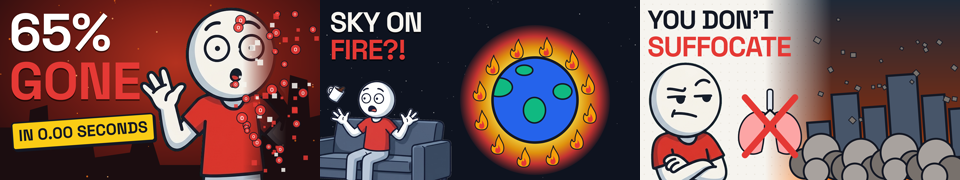
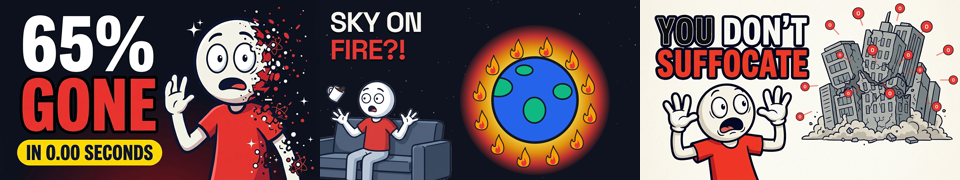
Oxygen 5s: owner thumbnails (65% GONE; YOU DON'T SUFFOCATE cleaned + escaping O atoms), final 320 check
Claude-Session: https://claude.ai/code/session_01QZBGd8qH4EfV1MNE2nHfnB

diff --git a/oxygen-5s/src/Thumbnails.tsx b/oxygen-5s/src/Thumbnails.tsx
@@ -103,3 +103,18 @@ export const ThumbE: React.FC = () => (
     </div>
   </AbsoluteFill>
 );
+
+// E2 — owner's Gemini version of "YOU DON'T SUFFOCATE" (YOU cleaned to solid ink) + red oxygen atoms escaping the crumbling building.
+export const ThumbE2: React.FC = () => {
+  const cx = 1450, cy = 480;
+  const pts: [number, number, number][] = [[990, 520, 26], [1140, 150, 28], [1310, 80, 34], [1560, 50, 28], [1720, 160, 34], [1850, 300, 30], [1880, 480, 26], [1395, 300, 32], [1610, 330, 28], [1250, 560, 24], [1500, 560, 30], [960, 700, 24], [1780, 640, 28], [1200, 330, 22], [1680, 420, 22]];
+  return (
+    <AbsoluteFill>
+      <Img src={staticFile("thumbsrc/suffocate_owner_clean.png")} style={{ position: "absolute", left: 0, top: 0, width: 1920, height: 1080 }} />
+      <svg style={{ position: "absolute", left: 0, top: 0 }} width="1920" height="1080">
+        {pts.map(([x, y], i) => { const a = Math.atan2(y - cy, x - cx), L = 46; return <line key={i} x1={x - Math.cos(a) * (L + 30)} y1={y - Math.sin(a) * (L + 30)} x2={x - Math.cos(a) * 30} y2={y - Math.sin(a) * 30} stroke={C.red} strokeWidth="7" strokeLinecap="round" opacity="0.55" />; })}
+      </svg>
+      {pts.map(([x, y, rr], i) => <At key={i} x={x} y={y} r={rr} />)}
+    </AbsoluteFill>
+  );
+};

diff --git a/oxygen-5s/src/Root.tsx b/oxygen-5s/src/Root.tsx
@@ -1,7 +1,7 @@
 import "./fonts";
 import React from "react";
 import { Composition, Still } from "remotion";
-import { ThumbA, ThumbB, ThumbC, ThumbD, ThumbE } from "./Thumbnails";
+import { ThumbA, ThumbB, ThumbC, ThumbD, ThumbE, ThumbE2 } from "./Thumbnails";
 import { FPS, H, W } from "./lib/core";
 import { OxygenVideo, TOTAL_FRAMES } from "./Video";
 
@@ -13,5 +13,6 @@ export const RemotionRoot: React.FC = () => (
     <Still id="ThumbC-VanishFirst" component={ThumbC} width={1280} height={720} />
     <Still id="ThumbD-65Gone" component={ThumbD} width={1280} height={720} />
     <Still id="ThumbE-DontSuffocate" component={ThumbE} width={1280} height={720} />
+    <Still id="ThumbE2-DontSuffocate-owner" component={ThumbE2} width={1920} height={1080} />
   </>
 );

diff --git a/oxygen-5s/publish/00_long_video.md b/oxygen-5s/publish/00_long_video.md
@@ -40,4 +40,4 @@ What would freak you out more: the oceans turning into hydrogen, or every metal 
 - Category: Education · Not made for kids
 - End screen (last ~7 s): video element over the red-bordered box on the right + subscribe.
   Note: the voice says "8 real cosmic threats". If that video is on another channel, YouTube end screens can't link to it; point the end screen at one of our own videos.
-- Add to the series playlist. Test & Compare (final pick): ThumbD-65Gone / ThumbA-SkyOnFire / ThumbE-DontSuffocate.
+- Add to the series playlist. Test & Compare (final pick): ThumbD2-65Gone_owner / ThumbA-SkyOnFire / ThumbE2-DontSuffocate-owner.
